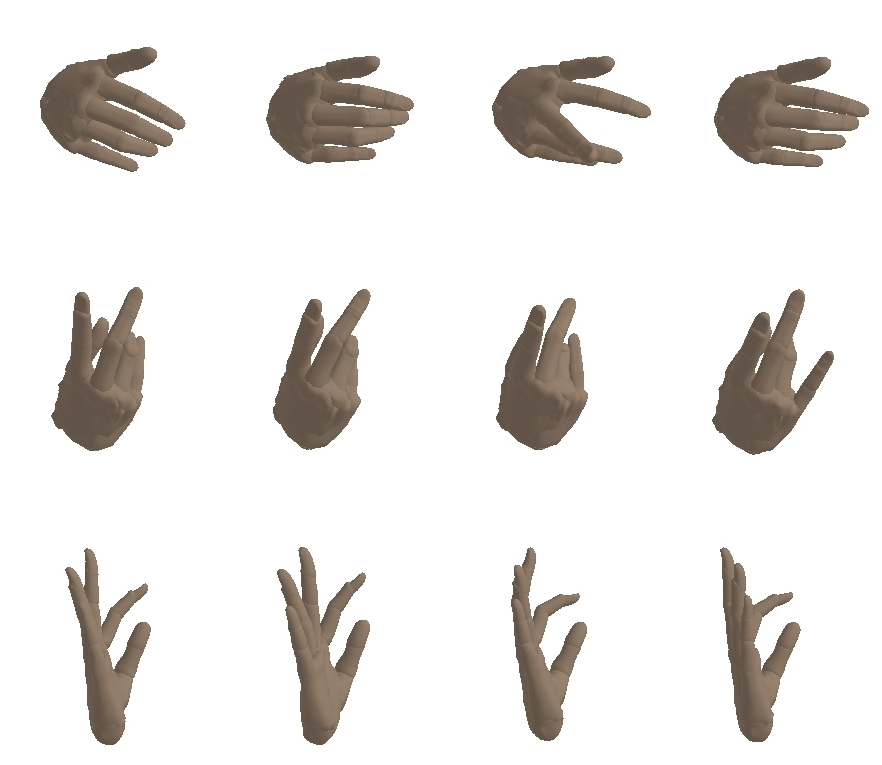
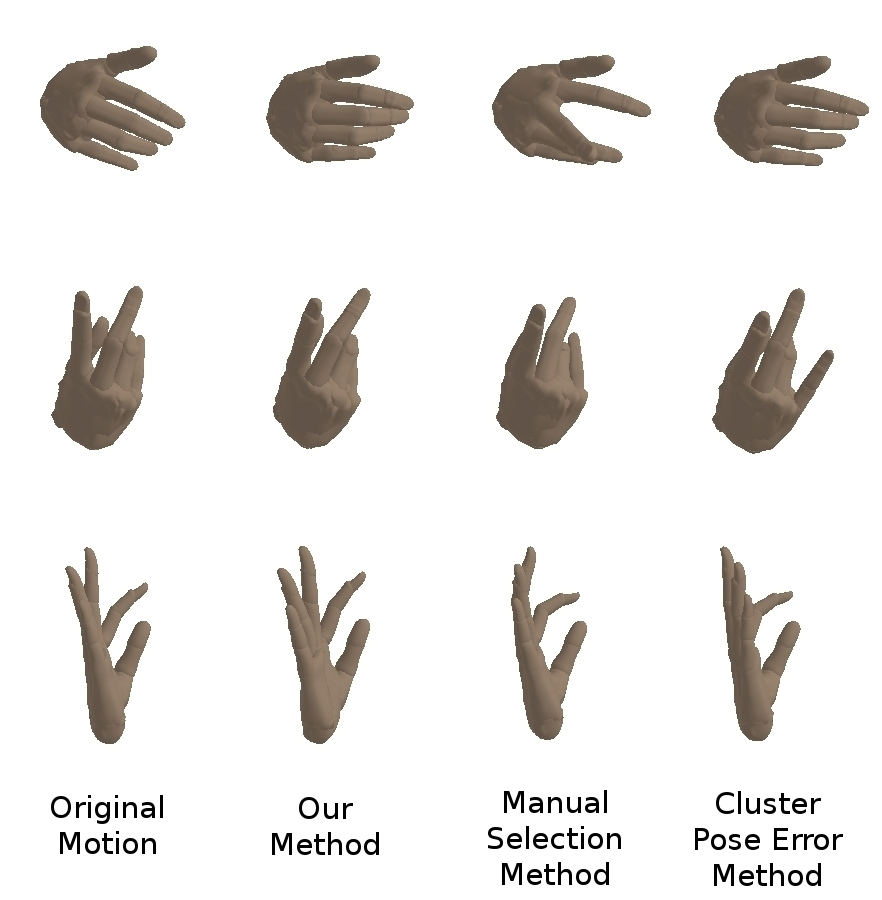
07 results section edit

diff --git a/07_results.tex b/07_results.tex
@@ -1,25 +1,92 @@
 
-
 \section{Results}
-Our primary ``ASL'' database is composed simply of two contiunous
+Our primary database is used to reconstruct American Sign Language. 
+The database is composed simply of two contiunous
 runs of the signs of the letters for the complete 
-alphabet,
-signed by the same motion subject. 
-The sign language sequences that we  
-reconstruct include various words in sign language, including
-signs not in the database.
+alphabet, signed by the same actor. We test our method
+on various sequences that include words in sign language, most of
+which are not included in the database.
 
-For our small set of markers, we choose to use six markers as our
+For our sparse marker set, we choose to use six markers as our
 baseline in order to compare our technique to existing solutions. 
-Using our method to determine 
+Using the method described in Section 5 to determine 
 marker importance, the markers chosen are all of the fingertips
 and one on the lower part of the index finger. We also choose a
 marker set of three. The markers chosen are the fingertips of the 
-middle, ring, and pinky fingers.\\
-%
-We compare our marker set of six to marker sets presented by
-Kang et al.(2012) and Hoyet et al. (2011). The differences can
-be seen in video form. Using the regression method, our marker 
-set produces a smaller average joint angle error per frame 
-for all of our current sign language tests. Hoyet's method 
-consistently has the largest joint angle error.\\
+middle, ring, and pinky fingers.
+
+Sequences to be recontructed are initially recorded with a full
+marker set. Markers not selected for the sparse marker set
+are left out of the regression process.
+
+Our method uses regression to predict principle components for
+a sequence of motion. In Figure ~\ref{fig:BabySigns_comps}, we compare
+the top three predicted components of a sequence of baby sign language
+to the components of the original sequence with a full marker set. The
+predicted components of six markers and three markers are shown.
+Though there are differences, the motion of each component closely
+follows that of the ground truth for both marker sets. This can be seen clearly
+witha another reconstruced sequence in the video.
+
+We also compare a regression mapping marker positions to principle components to
+a regression mapping marker positions directly to joint angles. Figure
+~\ref{fig:PCA_noPCA} shows that the average joint angle error for mapping
+direclty to joint angles produces a much higher average joint angle error.
+The reconstructed hand with six markers fails to reach every distinct pose
+in the original animation.
+
+We compare our marker set of six to the markers sets derived from the Manual
+Selection Method presented by Hoyet et al. (2011) and the Cluster Pose Error
+Method presented by Kang et al.(2012). Using the regression
+method, our marker set produces a smaller average joint angle error per frame 
+for all of our current sign language tests. The Manual Selection Method's
+marker set consistently has the largest joint angle error. Figure
+~\ref{fig:3_methods} shows these differences, again using the clip
+of baby sign language as an example. The three distinct poses reached
+in the baby sign language clip are also shown using the different marker
+sets in Figure ~\ref{fig:BabySigns_methods}. Our marker set is consistently
+close to the original pose where as
+the two other marker fail at achieving at least one pose.\\
+
+\begin{figure}[ht]
+  \centering
+  \includegraphics[trim = 28mm 0mm 0mm 0mm,
+width=0.45\textwidth]{images/Components_babySigns1.jpg} %width=2.5in
+  \caption{Comparison of the components of a reconstructed clip of baby
+sign language when using 6 markers and 3 markers. Ground Truth is
+the original clip recorded with 13 markers.}
+  \label{fig:BabySigns_comps}
+\end{figure}
+
+\begin{figure}[ht]
+  \centering
+  \includegraphics[trim = 28mm 0mm 0mm 0mm,
+width=0.45\textwidth]{images/avgError_6_3_jangles_babySigns1.jpg} %width=2.5in
+  \caption{Comparison of two regression methods: regression to principle
+components and regression to joint angles.}
+  \label{fig:PCA_noPCA}
+\end{figure}
+
+\begin{figure}[ht]
+  \centering
+  \includegraphics[trim = 28mm 0mm 0mm 0mm,
+width=0.45\textwidth]{images/avgError_Marker_sets.jpg} %width=2.5in
+  \caption{Comparison of three marker set selection methods that use 6 markers.}
+  \label{fig:3_methods}
+\end{figure}
+
+
+\begin{figure}[ht]
+  \centering
+  \includegraphics[trim = 28mm 0mm 0mm 0mm,
+width=0.45\textwidth]{images/compiled_babySigns1_poses.jpg} %width=2.5in
+  \caption{The three distinct poses of the baby sign language clip
+reconstructed with the three different marker sets. They are compared to
+the original poses.}
+  \label{fig:BabySigns_methods}
+\end{figure}
+
+
+
+
+
